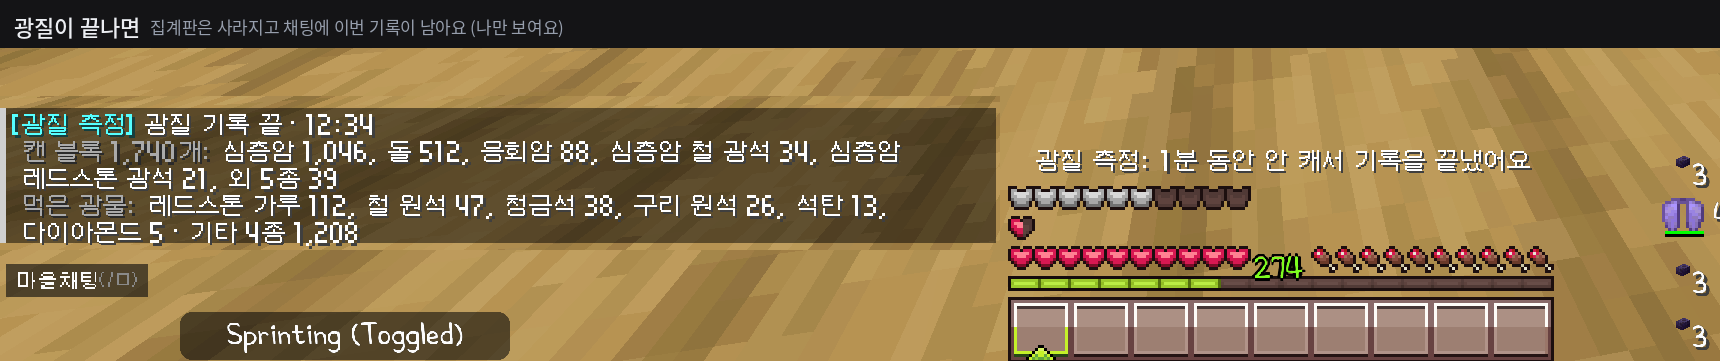
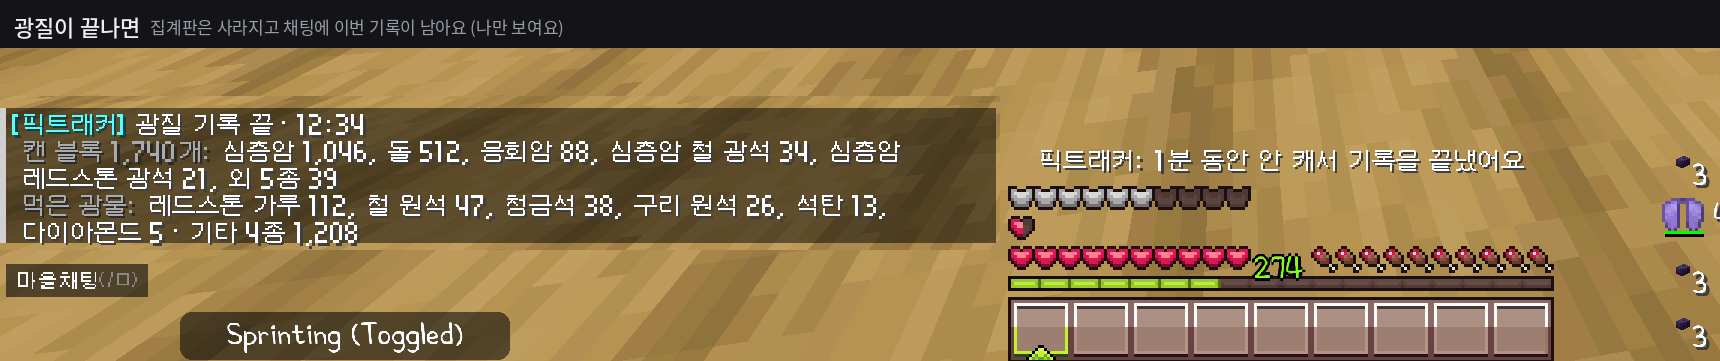
Add files via upload

Changed region(s): [[0.5855, 0.3961, 0.8936, 0.4875], [0.0, 0.3047, 0.2157, 0.3961]]

diff --git a/src/main/java/com/miningtracker/Tracker.java b/src/main/java/com/miningtracker/Tracker.java
@@ -452,7 +452,7 @@ public final class Tracker {
 		if (recording) {
 			if (cfg.autoMode && tick - lastMineTick > cfg.endAfterSeconds * 20L) {
 				stopRecording(mc, true);
-				notify(mc, "광질 측정: " + formatSeconds(cfg.endAfterSeconds) + " 동안 안 캐서 기록을 끝냈어요");
+				notify(mc, "픽트래커: " + formatSeconds(cfg.endAfterSeconds) + " 동안 안 캐서 기록을 끝냈어요");
 			} else if (mc.level != null && !mc.isPaused()
 					&& (!cfg.autoMode || tick - lastMineTick <= ACTIVE_GRACE_TICKS)) {
 				activeTicks++;
@@ -532,28 +532,28 @@ public final class Tracker {
 			ModConfig cfg = ModConfig.get();
 			cfg.hudVisible = !cfg.hudVisible;
 			ModConfig.save();
-			notify(mc, cfg.hudVisible ? "광질 측정: 집계판을 켰어요" : "광질 측정: 집계판을 숨겼어요");
+			notify(mc, cfg.hudVisible ? "픽트래커: 집계판을 켰어요" : "픽트래커: 집계판을 숨겼어요");
 		}
 		while (Keys.pause.consumeClick()) {
 			if (recording) {
 				stopRecording(mc, true);
-				notify(mc, "광질 측정: 기록을 끝냈어요");
+				notify(mc, "픽트래커: 기록을 끝냈어요");
 			} else {
 				startRecording(true);
 				ModConfig cfg = ModConfig.get();
 				notify(mc, cfg.autoMode
-						? "광질 측정: 기록을 시작했어요 (" + formatSeconds(cfg.endAfterSeconds) + " 동안 안 캐면 끝나요)"
-						: "광질 측정: 기록을 시작했어요 (F7을 다시 누르면 끝나요)");
+						? "픽트래커: 기록을 시작했어요 (" + formatSeconds(cfg.endAfterSeconds) + " 동안 안 캐면 끝나요)"
+						: "픽트래커: 기록을 시작했어요 (F7을 다시 누르면 끝나요)");
 			}
 		}
 		while (Keys.reset.consumeClick()) {
 			if (tick - resetArmedAt <= RESET_CONFIRM_TICKS) {
 				clearTallies();
 				resetArmedAt = Long.MIN_VALUE / 2;
-				notify(mc, "광질 측정: 집계판을 초기화했어요 (지금까지 캔 건 광질 통계에 남아요)");
+				notify(mc, "픽트래커: 집계판을 초기화했어요 (지금까지 캔 건 광질 통계에 남아요)");
 			} else {
 				resetArmedAt = tick;
-				notify(mc, "광질 측정: 3초 안에 한 번 더 누르면 집계판을 초기화해요");
+				notify(mc, "픽트래커: 3초 안에 한 번 더 누르면 집계판을 초기화해요");
 			}
 		}
 		while (Keys.edit.consumeClick()) {
@@ -1041,7 +1041,7 @@ public final class Tracker {
 		if (player == null || isEmpty()) {
 			return;
 		}
-		player.displayClientMessage(Component.literal("[광질 측정] ").withStyle(ChatFormatting.AQUA)
+		player.displayClientMessage(Component.literal("[픽트래커] ").withStyle(ChatFormatting.AQUA)
 				.append(Component.literal("광질 기록 끝 · " + HudRenderer.formatTime(activeTicks)).withStyle(ChatFormatting.WHITE)), false);
 
 		List<BlockTally> bl = sortedBlocks();

diff --git a/src/main/java/com/miningtracker/Commands.java b/src/main/java/com/miningtracker/Commands.java
@@ -96,7 +96,7 @@ public final class Commands {
 		Tracker tracker = Tracker.INSTANCE;
 		ModConfig cfg = ModConfig.get();
 		List<String> lines = new ArrayList<>();
-		lines.add("[광질 측정] 진단");
+		lines.add("[픽트래커] 진단");
 		String state = !tracker.isRecording() ? "기록 안 함"
 				: tracker.isManualSession() ? "기록 중 (직접 시작)" : "기록 중 (자동으로 시작)";
 		lines.add(" 상태: " + state + " · 방식: " + (cfg.autoMode ? "자동" : "수동")
@@ -138,7 +138,7 @@ public final class Commands {
 	private static int recent(FabricClientCommandSource source) {
 		List<String> notes = Tracker.INSTANCE.recentNotes();
 		int from = Math.max(0, notes.size() - RECENT_SHOWN);
-		source.sendFeedback(Component.literal("[광질 측정] 최근 판정 " + (notes.size() - from) + "개 (위가 오래된 것)"));
+		source.sendFeedback(Component.literal("[픽트래커] 최근 판정 " + (notes.size() - from) + "개 (위가 오래된 것)"));
 		if (notes.isEmpty()) {
 			source.sendFeedback(Component.literal(" 아직 없어요. 광질하면서 저장소 알림이 뜨면 여기 쌓여요."));
 		}
@@ -152,13 +152,13 @@ public final class Commands {
 	private static final int RECENT_SHOWN = 20;
 
 	private static int reply(FabricClientCommandSource source, String text) {
-		source.sendFeedback(Component.literal("[광질 측정] " + text));
+		source.sendFeedback(Component.literal("[픽트래커] " + text));
 		return 1;
 	}
 
 	private static int help(FabricClientCommandSource source) {
 		String[] lines = {
-				"[광질 측정] 명령어",
+				"[픽트래커] 명령어",
 				" /광질 설정 — 설정창 열기 (F9)",
 				" /광질 통계 — 날짜별 광질 기록 보기 (F10)",
 				" /광질 시작, /광질 종료 — 기록 직접 시작/끝내기 (F7)",

diff --git a/src/main/java/com/miningtracker/SettingsScreen.java b/src/main/java/com/miningtracker/SettingsScreen.java
@@ -64,7 +64,7 @@ public final class SettingsScreen extends PanelScreen {
 	private int panelWidth = MIN_WIDTH;
 
 	public SettingsScreen(Screen parent) {
-		super(Component.literal("광질 측정 설정"), parent);
+		super(Component.literal("픽트래커 설정"), parent);
 
 		List<Setting> record = new ArrayList<>();
 		record.add(new Setting("기록 방식", Kind.CHOICES, new String[]{"자동", "수동"},
@@ -139,7 +139,7 @@ public final class SettingsScreen extends PanelScreen {
 	@Override
 	protected void init() {
 		int w = MIN_WIDTH;
-		w = Math.max(w, 19 + this.font.width("광질 측정 설정") + 16 + stateWidth() + 8);
+		w = Math.max(w, 19 + this.font.width("픽트래커 설정") + 16 + stateWidth() + 8);
 		for (Section section : sections) {
 			for (Setting s : section.settings()) {
 				w = Math.max(w, 11 + this.font.width(s.label) + 12 + controlWidth(s) + 11);
@@ -183,7 +183,7 @@ public final class SettingsScreen extends PanelScreen {
 	@Override
 	protected void drawPanel(GuiGraphics g, Theme t, int w, int h) {
 		HudRenderer.icon(g, HudRenderer.headerIcon(), 8, 6);
-		t.text(g, this.font, "광질 측정 설정", 19, 6, t.text);
+		t.text(g, this.font, "픽트래커 설정", 19, 6, t.text);
 		drawState(g, t, w - 8);
 
 		int y = 20;

diff --git a/src/main/java/com/miningtracker/MiningTrackerClient.java b/src/main/java/com/miningtracker/MiningTrackerClient.java
@@ -13,7 +13,7 @@ import org.slf4j.LoggerFactory;
 
 public final class MiningTrackerClient implements ClientModInitializer {
 	public static final String MOD_ID = "mining-tracker";
-	public static final Logger LOGGER = LoggerFactory.getLogger("광질 측정");
+	public static final Logger LOGGER = LoggerFactory.getLogger("픽트래커");
 
 	@Override
 	@SuppressWarnings("deprecation") // HudRenderCallback still works on 1.21.4 and is the simplest hook
@@ -31,6 +31,6 @@ public final class MiningTrackerClient implements ClientModInitializer {
 		HudRenderCallback.EVENT.register(HudRenderer::onHudRender);
 		ClientCommandRegistrationCallback.EVENT.register(Commands::register);
 
-		LOGGER.info("광질 측정 모드가 켜졌어요");
+		LOGGER.info("픽트래커가 켜졌어요");
 	}
 }

diff --git a/src/main/java/com/miningtracker/HudRenderer.java b/src/main/java/com/miningtracker/HudRenderer.java
@@ -438,7 +438,7 @@ public final class HudRenderer {
 
 	private static int headerWidth(Font font) {
 		int pill = Math.max(font.width("측정 중"), font.width("쉬는 중")) + 15;
-		return 19 + font.width("광질 측정") + 10 + pill + 7;
+		return 19 + font.width("픽트래커") + 10 + pill + 7;
 	}
 
 	private static int heroLabelX(Font font, Panel p) {
@@ -454,7 +454,7 @@ public final class HudRenderer {
 		t.panel(g, 0, 0, w, h, false);
 		Theme.stripe(g, 0, 5, h - 10, t.status(p.resting));
 		icon(g, headerIcon(), 8, 5);
-		t.text(g, font, "광질 측정", 19, 5, t.sub);
+		t.text(g, font, "픽트래커", 19, 5, t.sub);
 		t.pill(g, font, p.resting ? "쉬는 중" : "측정 중", w - 7, 5, t.status(p.resting));
 	}
 

diff --git a/src/main/java/com/miningtracker/StatsScreen.java b/src/main/java/com/miningtracker/StatsScreen.java
@@ -377,7 +377,7 @@ public final class StatsScreen extends PanelScreen {
 				String path = outcome.file().getAbsolutePath();
 				Component link = Component.literal(outcome.file().getName()).withStyle(ChatFormatting.UNDERLINE)
 						.withStyle(style -> style.withClickEvent(new ClickEvent(ClickEvent.Action.OPEN_FILE, path)));
-				mc.player.displayClientMessage(Component.literal("[광질 측정] 통계 그림을 저장했어요: ").append(link), false);
+				mc.player.displayClientMessage(Component.literal("[픽트래커] 통계 그림을 저장했어요: ").append(link), false);
 			}
 		} else {
 			notice = "복사하지 못했어요";

diff --git a/src/main/java/com/miningtracker/Keys.java b/src/main/java/com/miningtracker/Keys.java
@@ -5,7 +5,7 @@ import net.fabricmc.fabric.api.client.keybinding.v1.KeyBindingHelper;
 import net.minecraft.client.KeyMapping;
 import org.lwjgl.glfw.GLFW;
 
-/** Key bindings. They show up under "광질 측정" in 설정 → 조작 → 키 설정 and can be changed there. */
+/** Key bindings. They show up under "픽트래커" in 설정 → 조작 → 키 설정 and can be changed there. */
 public final class Keys {
 	private static final String CATEGORY = "key.categories.mining-tracker";
 

diff --git a/src/main/java/com/miningtracker/StatsImage.java b/src/main/java/com/miningtracker/StatsImage.java
@@ -58,7 +58,7 @@ public final class StatsImage {
 		Thread thread = new Thread(() -> {
 			Outcome outcome = deliver(mc, image);
 			mc.execute(() -> done.accept(outcome));
-		}, "광질 측정 복사");
+		}, "픽트래커 복사");
 		thread.setDaemon(true);
 		thread.start();
 	}

diff --git a/src/main/java/com/miningtracker/EditHudScreen.java b/src/main/java/com/miningtracker/EditHudScreen.java
@@ -36,7 +36,7 @@ public final class EditHudScreen extends Screen {
 	private double offsetY;
 
 	public EditHudScreen(Screen parent) {
-		super(Component.literal("광질 측정 HUD 편집"));
+		super(Component.literal("픽트래커 HUD 편집"));
 		this.parent = parent;
 	}
 

diff --git a/README.md b/README.md
@@ -1,6 +1,8 @@
-<p align="center"><img src="docs/icon.png" width="96" alt="광질 측정 아이콘"></p>
+<p align="center"><img src="docs/icon.png" width="96" alt="픽트래커 아이콘"></p>
 
-# 광질 측정 (Mining Tracker)
+# 픽트래커 (PickTracker)
+
+만든 사람: **한서**
 
 마인크래프트 **1.21.4 Fabric** 클라이언트 모드예요. 광질하면서 **어떤 블록을 몇 개 캤는지**, **광물을 몇 개 먹었는지**를 세서 화면에 보여줘요.
 야생에서 곡괭이로 광질을 시작하면 **알아서 기록을 시작**하고, 한동안 안 캐면 **알아서 끝내요.**
@@ -78,7 +80,7 @@
 ## 설치
 
 1. [Fabric Loader](https://fabricmc.net/use/)와 [Fabric API](https://modrinth.com/mod/fabric-api)(1.21.4용)가 필요해요.
-2. `mining-tracker-x.y.z.jar` 파일을 `.minecraft/mods` 폴더에 넣으면 돼요. 예전 버전 jar는 지워 주세요.
+2. `picktracker-x.y.z.jar` 파일을 `.minecraft/mods` 폴더에 넣으면 돼요. 예전 버전 jar는 지워 주세요.
 
 > 서버에서 쓰려면 먼저 서버 규칙(허용 모드)을 확인하고, 필요하면 운영진 허가를 받으세요. 이 모드는 화면에 보이는 정보만 세고 게임 동작은 전혀 바꾸지 않아요. 서버로 보내는 것도 없어요.
 
@@ -92,7 +94,7 @@
 | F9 | 설정창 열기 (한 번 더 누르면 닫혀요) |
 | F10 | 광질 통계 열기 (한 번 더 누르면 닫혀요) |
 
-키는 `설정 → 조작 → 키 설정 → 광질 측정`에서 바꿀 수 있어요.
+키는 `설정 → 조작 → 키 설정 → 픽트래커`에서 바꿀 수 있어요.
 
 ## 명령어
 
@@ -143,16 +145,18 @@
 이 저장소에는 깃허브가 자동으로 모드를 빌드하는 설정(`.github/workflows/build.yml`)이 들어 있어요.
 
 1. 깃허브에 파일을 올리면 위쪽 **Actions** 탭에서 `build`가 자동으로 실행돼요.
-2. 초록색 체크가 뜨면 그 실행을 누르고, 아래쪽 **Artifacts**에서 `mining-tracker`를 내려받으세요.
+2. 초록색 체크가 뜨면 그 실행을 누르고, 아래쪽 **Artifacts**에서 `picktracker`를 내려받으세요.
 3. 압축을 풀면 파일이 두 개 있어요.
-   - `mining-tracker-x.y.z.jar`: 모드 파일이에요. 이것만 `mods` 폴더에 넣으세요.
-   - `mining-tracker-x.y.z-sources.jar`: 소스 코드예요. 운영진에게 소스 코드를 보여줄 때 쓰고, `mods` 폴더에는 넣지 마세요.
+   - `picktracker-x.y.z.jar`: 모드 파일이에요. 이것만 `mods` 폴더에 넣으세요.
+   - `picktracker-x.y.z-sources.jar`: 소스 코드예요. 운영진에게 소스 코드를 보여줄 때 쓰고, `mods` 폴더에는 넣지 마세요.
 
 버전은 `gradle.properties`의 `version=`에서 바꿔요. 작은 수정은 맨 오른쪽 숫자를, 큰 변경은 가운데나 왼쪽 숫자를 올려요.
 
 직접 빌드하려면 깃허브 빌드와 같은 Java 25를 설치하고 `./gradlew build`를 실행하면 `build/libs/`에 jar가 생겨요.
 
 ## 버전 기록
+
+- **0.5.4:** 모드 이름을 **픽트래커 (PickTracker)**로 바꾸고 만든 사람(한서)을 넣었어요. 채팅 · 설정창 · 집계판 · 키 설정에 보이는 이름도 픽트래커로 바뀌었어요. jar 파일 이름은 `picktracker-x.y.z.jar`예요. 설정과 통계 기록 파일은 그대로라 지금까지 쌓인 기록이 이어져요.
 
 - **0.5.3:** 저장소 알림을 놓쳤을 때 괄호 숫자로 채워서 세요(계속 기록 중 · 야생 · 창 안 열었음 · 인출 없음 · 2분 안일 때만). 알림을 읽는 순간을 놓쳐도 화면에 떠 있는 글자로 한 번 더 읽어요. `/광질 진단`에 채운 개수와 화면 글자로 읽은 개수가 나와요.
 
